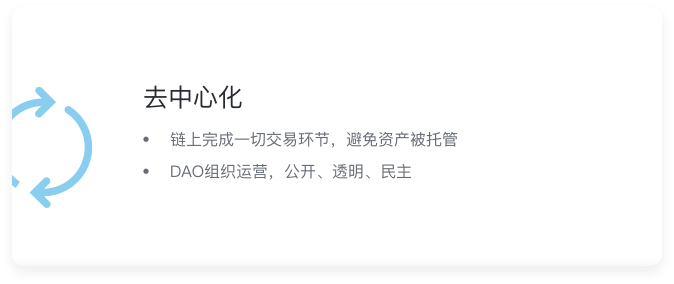
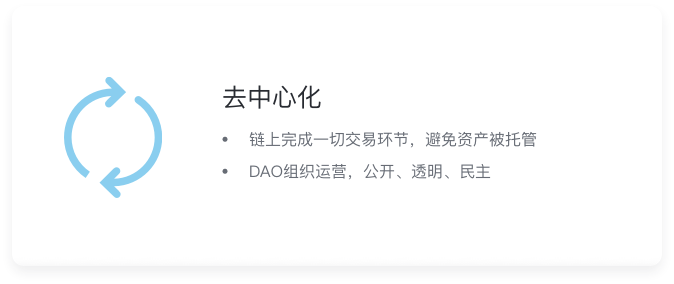
替换技术介绍的图片、调整技术介绍和产品介绍的布局

Changed region(s): [[0.0, 0.2535, 0.8101, 0.7324]]

diff --git a/src/components/productList/productList.js b/src/components/productList/productList.js
@@ -1,6 +1,8 @@
 import React, { Component } from 'react';
 import styles from './productList.scss';
 // import HeadIcon from '../../assets/img/'
+import { Grid, Row, Col } from 'react-bootstrap';
+
 import img1 from '../../assets/img/Bitmap@2x.png';
 import img2 from '../../assets/img/Icon1@2x.png';
 import img3 from '../../assets/img/Icon@2x.png';
@@ -8,10 +10,13 @@ import img4 from '../../assets/img/Icon4@2x.png';
 import img5 from '../../assets/img/Icon3@2x.png';
 import img6 from '../../assets/img/Icon2@2x.png';
 
-const data = [
+const data1 = [
     { img:img1, title:'新型数字资产合约', content:'多种数字资产，合约类型多样，杠杆灵活、自由选择，可投票决定' },
     { img:img2, title:'创新指数', content:'基于创新指数开发合约产品，跟踪资产在不同时间框架内的价格波动' },
     { img:img3, title:'外汇合约', content:'数字货币打通多种外汇交易通道，全球即时交易。' },
+];
+
+const data2 = [
     { img:img4, title:'ETF组合交易', content:'多样化篮子、易于投资，适合长线' },
     { img:img5, title:'量化交易', content:'发布策略获得平台奖励，量化策略可交易' },
     { img:img6, title:'先进的交易工具', content:'通过智能投顾、技术指标、强大API通知和执行你的交易策略。' },
@@ -24,13 +29,22 @@ export default class Head extends Component {
     render(){
 
         return (
-            <div className={styles.box}>
-                {
-                    data.map((item, i)=>(
-                        <Box src={item.img} title={item.title} content={item.content} key={i} />
-                    ))
-                }
-            </div>
+            <Grid className={styles.box}>
+                <Row>
+                    {
+                        data1.map((item, i)=>(
+                            <Box src={item.img} title={item.title} content={item.content} key={i} />
+                        ))
+                    }
+                </Row>
+                <Row>
+                    {
+                        data2.map((item, i)=>(
+                            <Box src={item.img} title={item.title} content={item.content} key={i} />
+                        ))
+                    }
+                </Row>
+            </Grid>
         );
 
     }
@@ -42,13 +56,13 @@ class Box extends Component{
     }
     render(){
         return (
-            <div className={styles.cellBox}>
+            <Col xs={6} md={4} className={styles.cellBox}>
                 <div className={styles.imgIcon}>
                     <img src={this.props.src} />
                 </div>
                 <p className={styles.title}>{this.props.title}</p>
                 <p className={styles.content}>{this.props.content}</p>
-            </div>
+            </Col>
         );
     }
 }

diff --git a/src/components/skillList/skillList.js b/src/components/skillList/skillList.js
@@ -1,13 +1,17 @@
 import React, { Component } from 'react';
 import styles from './skillList.scss';
+import { Grid, Row, Col } from 'react-bootstrap';
 import img1 from '../../assets/img/Group 8@2x.png';
 import img2 from '../../assets/img/Group 9@2x.png';
 import img3 from '../../assets/img/Group 10@2x.png';
 import img4 from '../../assets/img/Group 11@2x.png';
 
-const data = [
+const data1 = [
     { img:img1,},
     { img:img2,},
+];
+
+const data2 = [
     { img:img3,},
     { img:img4,},
 ];
@@ -19,13 +23,22 @@ export default class Head extends Component {
     render(){
 
         return (
-            <div className={styles.box}>
-                {
-                    data.map((item, i)=>(
-                        <Box src={item.img} title={item.title} content={item.content} key={i} />
-                    ))
-                }
-            </div>
+            <Grid className={styles.box}>
+                <Row>
+                    {
+                        data1.map((item, i)=>(
+                            <Box src={item.img} title={item.title} content={item.content} key={i} />
+                        ))
+                    }
+                </Row>
+                <Row>
+                    {
+                        data2.map((item, i)=>(
+                            <Box src={item.img} title={item.title} content={item.content} key={i} />
+                        ))
+                    }
+                </Row>
+            </Grid>
         );
 
     }
@@ -37,11 +50,11 @@ class Box extends Component{
     }
     render(){
         return (
-            <div className={styles.cellBox}>
+            <Col xs={9} md={6} className={styles.cellBox}>
                 <div className={styles.imgIcon}>
                     <img src={this.props.src} />
                 </div>
-            </div>
+            </Col>
         );
     }
 }

diff --git a/src/components/skillList/skillList.scss b/src/components/skillList/skillList.scss
@@ -9,19 +9,9 @@
 }
 
 .cellBox{
-    width: 550px;
-    height: 250px;
-    float: left;
-    margin-right: 85px;
-    &:nth-child(2n){
-        margin-right: 0;
-    }
-
     .imgIcon{
         width: 100%;
         height: 100%;
-        display: block;
-        margin: 0 auto;
         img{
             width: 100%;
         }

diff --git a/src/components/productList/productList.scss b/src/components/productList/productList.scss
@@ -9,10 +9,6 @@
 }
 
 .cellBox{
-    width: 360px;
-    height: 310px;
-    float: left;
-    margin-right: 35px;
     p{
         text-align: center;
     }
